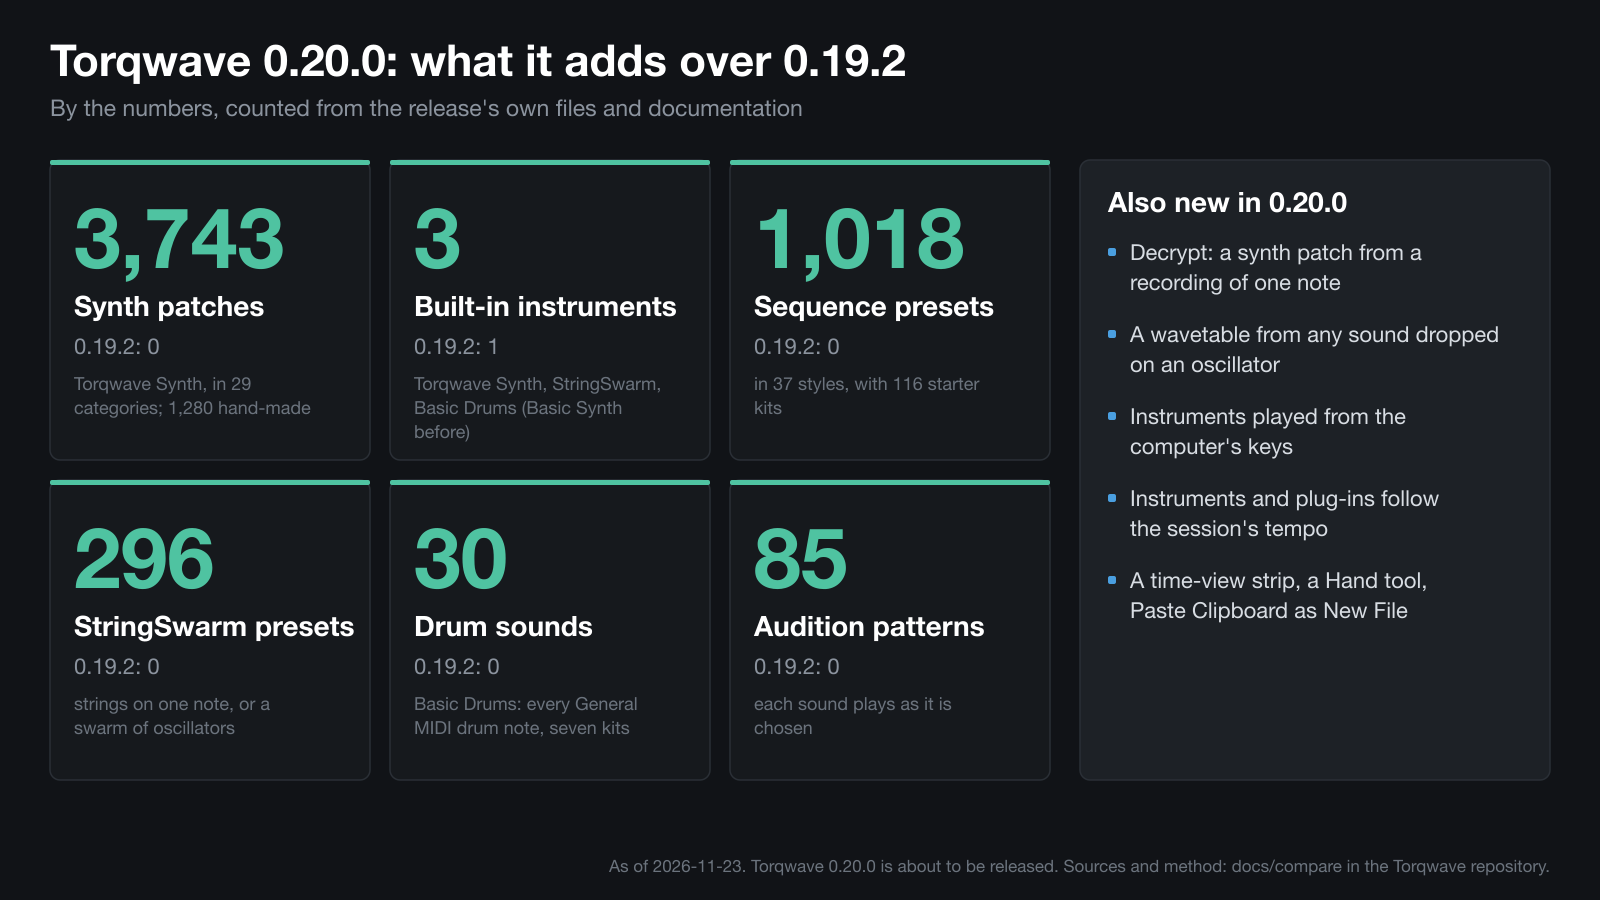
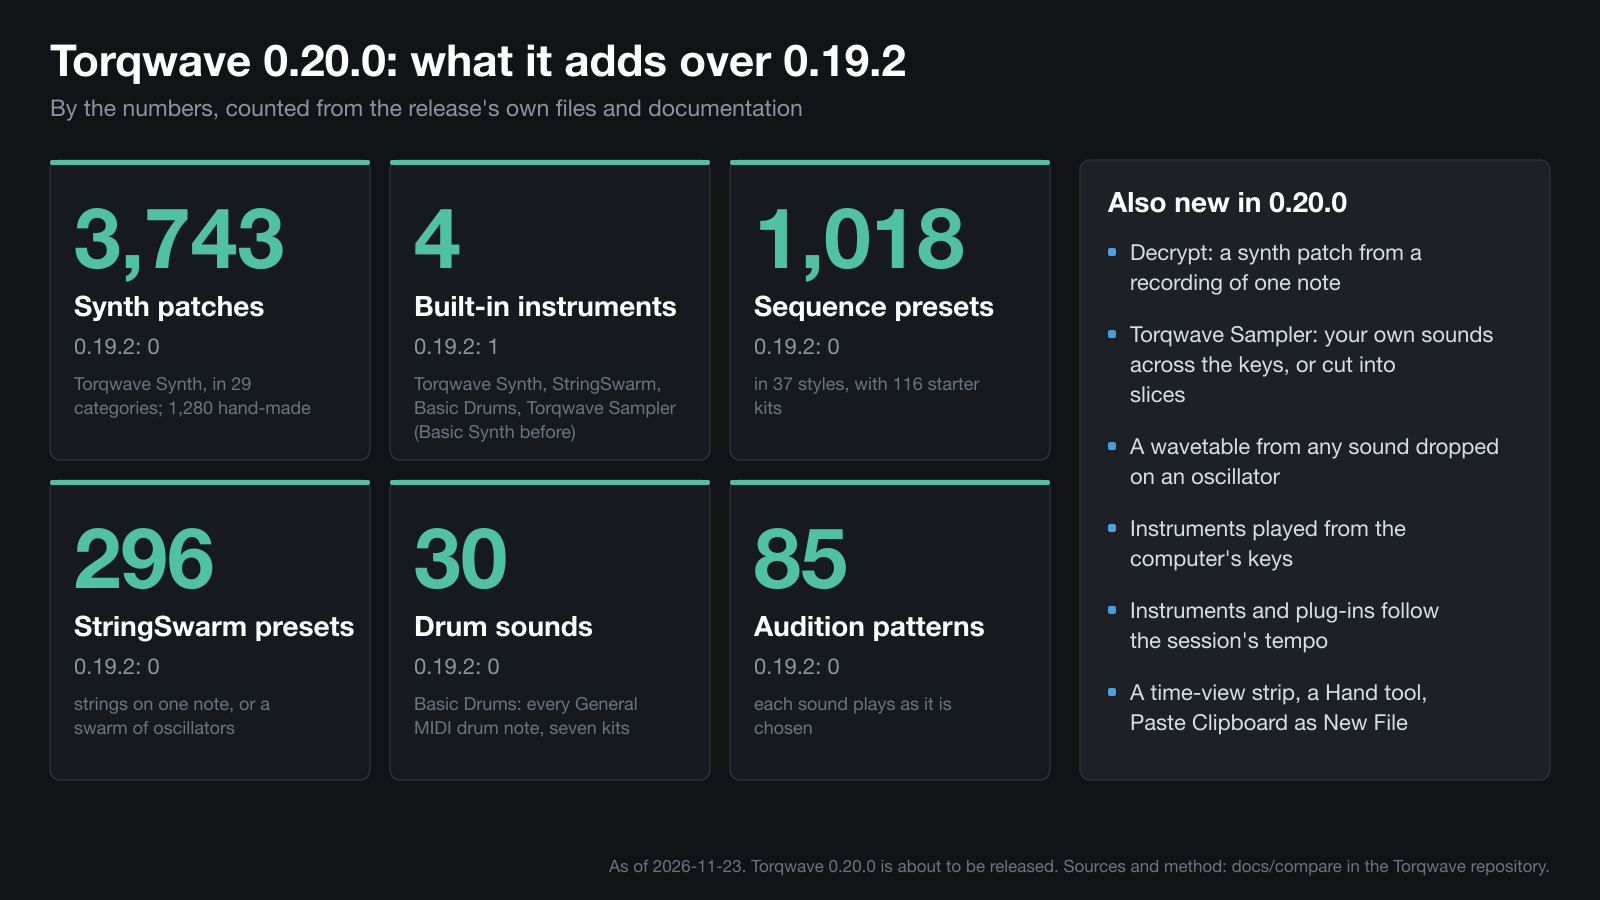
The comparison and the 0.20.0 announcement count Torqwave Sampler: the sampler row is yes, four built-in instruments

diff --git a/docs/compare/MATRIX.md b/docs/compare/MATRIX.md
@@ -75,13 +75,13 @@ Rows that are yes, with partial rows after a plus sign and rows not confirmed af
 | Loudness and analysis | 5 | 5 | 5 | 4 +1 | 1 ?1 | 3 +2 | 1 +2 | 2 +3 |
 | Multitrack and mixing | 9 | 7 | 7 | 4 +1 ?1 | 1 +2 ?1 | 0 +1 | 1 +3 | 4 +2 |
 | MIDI and writing music | 6 | 4 | 3 | 0 +1 | 0 | 0 | 0 | 0 +1 |
-| Built-in instruments | 6 | 5 | 1 +1 | 0 | 0 | 0 | 0 | 0 |
+| Built-in instruments | 6 | 6 | 1 +1 | 0 | 0 | 0 | 0 | 0 |
 | Plug-in hosting | 5 | 3 | 3 | 3 | 3 ?1 | 2 +1 | 1 | 2 |
 | Working to picture | 4 | 4 | 4 | 3 | 1 | 1 | 0 +1 | 3 |
 | Sound library | 1 | 1 | 1 | 0 ?1 | 0 | 0 | 0 | 0 |
 | AI help | 3 | 2 +1 | 2 +1 | 0 ?1 | 0 | 0 ?1 | 1 | 0 |
 | Platforms and licence | 4 | 4 | 4 | 2 | 4 | 2 | 2 | 2 |
-| **All rows** | 53 | 44 +2 | 39 +3 | 23 +5 ?3 | 15 +5 ?3 | 18 +4 ?1 | 15 +7 | 20 +7 |
+| **All rows** | 53 | 45 +2 | 39 +3 | 23 +5 ?3 | 15 +5 ?3 | 18 +4 ?1 | 15 +7 | 20 +7 |
 
 **The DAWs**
 
@@ -92,13 +92,13 @@ Rows that are yes, with partial rows after a plus sign and rows not confirmed af
 | Loudness and analysis | 5 | 5 | 5 | 2 +2 ?1 | 2 +1 | 0 +2 | 1 +2 | 4 +1 | 4 +1 | 4 +1 | 2 +2 | 4 +1 | 2 +2 |
 | Multitrack and mixing | 9 | 7 | 7 | 6 +1 ?1 | 6 +1 | 6 | 5 | 7 | 8 ?1 | 8 | 9 | 8 +1 | 6 +1 |
 | MIDI and writing music | 6 | 4 | 3 | 4 +1 ?1 | 4 +1 | 4 | 4 +1 | 3 +1 | 5 ?1 | 5 ?1 | 5 ?1 | 6 | 3 +1 |
-| Built-in instruments | 6 | 5 | 1 +1 | 5 +1 | 5 | 4 +1 | 5 | 2 +1 | 6 | 4 +1 | 4 | 4 | 2 +1 |
+| Built-in instruments | 6 | 6 | 1 +1 | 5 +1 | 5 | 4 +1 | 5 | 2 +1 | 6 | 4 +1 | 4 | 4 | 2 +1 |
 | Plug-in hosting | 5 | 3 | 3 | 4 | 3 | 3 | 2 | 5 | 1 | 2 | 0 | 3 | 4 |
 | Working to picture | 4 | 4 | 4 | 2 +1 | 2 +1 | 0 | 0 | 3 | 4 | 3 | 3 | 3 | 3 |
 | Sound library | 1 | 1 | 1 | 0 +1 | 1 | 1 | 1 | 1 | 1 | 1 | 1 | 0 +1 | 0 +1 |
 | AI help | 3 | 2 +1 | 2 +1 | 1 +1 | 1 | 0 | 0 | 0 | 1 ?1 | 0 ?1 | 1 | 0 +1 | 0 +1 |
 | Platforms and licence | 4 | 4 | 4 | 2 | 2 | 3 | 2 | 3 | 1 | 2 | 2 | 2 +1 | 4 |
-| **All rows** | 53 | 44 +2 | 39 +3 | 32 +9 ?4 | 27 +5 | 21 +3 | 20 +4 | 32 +6 | 34 +4 ?3 | 32 +4 ?2 | 31 +6 ?1 | 32 +7 | 24 +9 |
+| **All rows** | 53 | 45 +2 | 39 +3 | 32 +9 ?4 | 27 +5 | 21 +3 | 20 +4 | 32 +6 | 34 +4 ?3 | 32 +4 ?2 | 31 +6 ?1 | 32 +7 | 24 +9 |
 
 
 ## Torqwave by release
@@ -106,7 +106,7 @@ Rows that are yes, with partial rows after a plus sign and rows not confirmed af
 | Release | Yes | Partial | No | Rows |
 |---|---|---|---|---|
 | 0.19.2 | 39 | 3 | 11 | 53 |
-| 0.20.0 | 44 | 2 | 7 | 53 |
+| 0.20.0 | 45 | 2 | 6 | 53 |
 
 ## Where Torqwave is behind
 
@@ -119,7 +119,6 @@ Rows where Torqwave 0.20.0 is no or partial and at least two of the 15 other pro
 | ARA 2 plug-ins | No | 4: Steinberg SpectraLayers, REAPER, Cubase, Pro Tools |
 | Audio to MIDI | No | 7: FL Studio, Ableton Live, Reason, Logic Pro, Cubase, Pro Tools, Fender Studio Pro |
 | Notation editor | No | 5: REAPER, Logic Pro, Cubase, Pro Tools, Fender Studio Pro |
-| Built-in sampler | No | 9: FL Studio, Ableton Live, Bitwig Studio, Reason, REAPER, Logic Pro, Cubase, Pro Tools, Fender Studio Pro |
 | CLAP | No | 3: FL Studio, Bitwig Studio, REAPER |
 | VST2 | No | 10: Adobe Audition, Steinberg WaveLab, FL Studio, Ableton Live, Bitwig Studio, Reason, REAPER, Cubase, Fender Studio Pro, Ardour |
 | A typed request becomes edits | Partial | 2: FL Studio, Logic Pro |
@@ -147,14 +146,14 @@ Rows where Torqwave 0.20.0 is yes and at most two of the 15 other products are y
 | Built-in synthesizer | Yes: Basic Synth: one waveform, an envelope and a filter. | Yes: Torqwave Synth (wavetable, three oscillators) and StringSwarm. |
 | Wavetable from your own audio | No: Basic Synth has no wavetables. | Yes: A sound dropped on an oscillator of Torqwave Synth becomes its wavetable. |
 | Built-in drum instrument | No: No drum instrument. | Yes: Basic Drums: 30 synthesised sounds on pads covering the 47 General MIDI drum notes, seven kits. |
-| Built-in sampler | No: No sampler instrument. | No: No sampler instrument. Torqwave Synth reads a sound as a wavetable, which is not sample playback. |
-| Factory instrument sounds | Partial: 1 instrument, Basic Synth, with a short presets menu; the docs give no count. | Yes: 3 instruments: Torqwave Synth with 3,743 patches in 29 categories, StringSwarm with 296 presets, Basic Drums with seven kits. |
+| Built-in sampler | No: No sampler instrument. | Yes: Torqwave Sampler: the user's sounds across the keys in up to 128 zones with loops and crossfades, or cut into slices on keys. Samples are held in memory; no import of SFZ or SF2 libraries, no round robins. Measured by the tests; not yet tried by hand in the app. |
+| Factory instrument sounds | Partial: 1 instrument, Basic Synth, with a short presets menu; the docs give no count. | Yes: 4 instruments: Torqwave Synth with 3,743 patches in 29 categories, StringSwarm with 296 presets, Basic Drums with seven kits, Torqwave Sampler with 11 presets. |
 | Synth patch from a recording | No: Not in 0.19.2. | Yes: Decrypt searches for a Torqwave Synth patch that plays like a recording of one note. Close for sounds the synth made; loose for voices, drums and samples; one note, effects off. |
 
 | Number | 0.19.2 | 0.20.0 | |
 |---|---|---|---|
 | Synth patches | 0 | 3,743 | Torqwave Synth, in 29 categories; 1,280 hand-made |
-| Built-in instruments | 1 | 3 | Torqwave Synth, StringSwarm, Basic Drums (Basic Synth before) |
+| Built-in instruments | 1 | 4 | Torqwave Synth, StringSwarm, Basic Drums, Torqwave Sampler (Basic Synth before) |
 | Sequence presets | 0 | 1,018 | in 37 styles, with 116 starter kits |
 | StringSwarm presets | 0 | 296 | strings on one note, or a swarm of oscillators |
 | Drum sounds | 0 | 30 | Basic Drums: every General MIDI drum note, seven kits |
@@ -269,7 +268,7 @@ Rows where Torqwave 0.20.0 is yes and at most two of the 15 other products are y
 | Built-in synthesizer | Yes | Yes | No | No | No | No | No |
 | Wavetable from your own audio | Yes | No | No | No | No | No | No |
 | Built-in drum instrument | Yes | No | No | No | No | No | No |
-| Built-in sampler | No | No | No | No | No | No | No |
+| Built-in sampler | Yes | No | No | No | No | No | No |
 | Factory instrument sounds | Yes | Partial | No | No | No | No | No |
 | Synth patch from a recording | Yes | No | No | No | No | No | No |
 
@@ -278,7 +277,7 @@ Rows where Torqwave 0.20.0 is yes and at most two of the 15 other products are y
 | Built-in synthesizer | Yes | Yes | Yes | Yes | Yes | Yes | Yes | Yes | Yes | Yes | Yes | Yes |
 | Wavetable from your own audio | Yes | No | Partial | Yes | Partial | Yes | No | Yes | Partial | No | No | No |
 | Built-in drum instrument | Yes | No | Yes | Yes | Yes | Yes | Partial | Yes | Yes | Yes | Yes | No |
-| Built-in sampler | No | No | Yes | Yes | Yes | Yes | Yes | Yes | Yes | Yes | Yes | Partial |
+| Built-in sampler | Yes | No | Yes | Yes | Yes | Yes | Yes | Yes | Yes | Yes | Yes | Partial |
 | Factory instrument sounds | Yes | Partial | Yes | Yes | Yes | Yes | No | Yes | Yes | Yes | Yes | Yes |
 | Synth patch from a recording | Yes | No | Yes | No | No | No | No | Yes | No | No | No | No |
 
@@ -560,8 +559,8 @@ Version 0.20.0, the only edition. Looked up 2026-11-23. This repository at commi
 | Built-in synthesizer | Yes | Torqwave Synth (wavetable, three oscillators) and StringSwarm. | `docs/guide/07-instruments-and-midi.md` |  |
 | Wavetable from your own audio | Yes | A sound dropped on an oscillator of Torqwave Synth becomes its wavetable. | `docs/guide/07-instruments-and-midi.md` |  |
 | Built-in drum instrument | Yes | Basic Drums: 30 synthesised sounds on pads covering the 47 General MIDI drum notes, seven kits. | `docs/guide/07-instruments-and-midi.md` |  |
-| Built-in sampler | No | No sampler instrument. Torqwave Synth reads a sound as a wavetable, which is not sample playback. | `docs/guide/07-instruments-and-midi.md` |  |
-| Factory instrument sounds | Yes | 3 instruments: Torqwave Synth with 3,743 patches in 29 categories, StringSwarm with 296 presets, Basic Drums with seven kits. | `README.md` |  |
+| Built-in sampler | Yes | Torqwave Sampler: the user's sounds across the keys in up to 128 zones with loops and crossfades, or cut into slices on keys. Samples are held in memory; no import of SFZ or SF2 libraries, no round robins. Measured by the tests; not yet tried by hand in the app. | `docs/guide/07-instruments-and-midi.md` |  |
+| Factory instrument sounds | Yes | 4 instruments: Torqwave Synth with 3,743 patches in 29 categories, StringSwarm with 296 presets, Basic Drums with seven kits, Torqwave Sampler with 11 presets. | `README.md` |  |
 | Synth patch from a recording | Yes | Decrypt searches for a Torqwave Synth patch that plays like a recording of one note. Close for sounds the synth made; loose for voices, drums and samples; one note, effects off. | `docs/guide/07-instruments-and-midi.md` |  |
 | VST3 | Yes | Effects and instruments, scanned out of process. | `README.md` |  |
 | Audio Units (Mac) | Yes | Audio Units v2 and v3 on the Mac. | `README.md` |  |

diff --git a/docs/ANNOUNCEMENT-0.20.0.md b/docs/ANNOUNCEMENT-0.20.0.md
@@ -17,9 +17,9 @@ One post, with graphic 1 (`compare/graphics/1-release-by-the-numbers.png`).
 ```text
 Torqwave 0.20.0 is out. The free, open-source audio editor and DAW gets its own instruments:
 
-• Torqwave Synth: a wavetable synth, 3,743 patches
+• Torqwave Synth: wavetable, 3,743 patches
 • Decrypt: a patch from a recording of one note
-• StringSwarm and Basic Drums
+• Sampler, StringSwarm and Basic Drums
 • 1,018 sequence presets
 
 <release link>
@@ -53,12 +53,12 @@ Decrypt builds a synth patch from a recording of one note. It finds the pitch, p
 Close for sounds a synth made. Loose for voices, drums and samples: a patch in their spirit.
 ```
 
-**4 of 6**, with StringSwarm's and Basic Drums' windows (`screenshots/guide-swarm.png`, `screenshots/guide-drums.png`).
+**4 of 6**, with Torqwave Sampler's, StringSwarm's and Basic Drums' windows (`screenshots/guide-sampler.png`, `screenshots/guide-swarm.png`, `screenshots/guide-drums.png`). The sampler's picture comes with the sampler's branch and is drawn by the tests without the playing keys; retake it from the release build if there is time.
 
 ```text
-Two more instruments. StringSwarm: a guitar with every string tuned to the note you play, through a fuzz, or a swarm of oscillators. Basic Drums: 30 sounds on pads, for every General MIDI drum.
+Three more instruments. Torqwave Sampler: your own sounds across the keys, or cut into slices. StringSwarm: a guitar with every string tuned to the note you play, through a fuzz, or a swarm of oscillators. Basic Drums: 30 sounds on pads.
 
-Both play from the computer's keys. Audition plays each sound as you choose it.
+All play from the computer's keys.
 ```
 
 **5 of 6**, with the Sequencer workspace (`screenshots/guide-sequencer.png`) and the editor (`screenshots/editor.png`).
@@ -74,7 +74,7 @@ In the editor: a time-view strip over the ruler, a Hand tool, and Paste Clipboar
 ```text
 Where does it stand? We keep a feature comparison with 15 other editors and DAWs, each cell read from that product's own documentation, and update it every release.
 
-It shows what Torqwave lacks too: no sampler, no audio to MIDI, no CLAP or ARA, and installers not yet notarized.
+It shows what Torqwave lacks too: no audio to MIDI, no CLAP, ARA or Dolby Atmos, and installers not yet notarized.
 ```
 
 A reply under the thread can carry the comparison's address once the branch is on GitHub: `https://github.com/BobClawblaw/torqwave/blob/main/docs/compare/MATRIX.md`.
@@ -84,7 +84,7 @@ A reply under the thread can carry the comparison's address once the branch is o
 For graphic 1, `1-release-by-the-numbers.png`:
 
 ```alt
-A dark chart titled "Torqwave 0.20.0: what it adds over 0.19.2". Six tiles, each with a number and the figure for 0.19.2 under it: 3,743 synth patches (0 before), 3 built-in instruments (1 before), 1,018 sequence presets (0 before), 296 StringSwarm presets (0 before), 30 drum sounds (0 before), 85 audition patterns (0 before). A list beside them, "Also new in 0.20.0": Decrypt, a synth patch from a recording of one note; a wavetable from any sound dropped on an oscillator; instruments played from the computer's keys; instruments and plug-ins follow the session's tempo; a time-view strip, a Hand tool and Paste Clipboard as New File.
+A dark chart titled "Torqwave 0.20.0: what it adds over 0.19.2". Six tiles, each with a number and the figure for 0.19.2 under it: 3,743 synth patches (0 before), 4 built-in instruments (1 before), 1,018 sequence presets (0 before), 296 StringSwarm presets (0 before), 30 drum sounds (0 before), 85 audition patterns (0 before). A list beside them, "Also new in 0.20.0": Decrypt, a synth patch from a recording of one note; Torqwave Sampler, your own sounds across the keys or cut into slices; a wavetable from any sound dropped on an oscillator; instruments played from the computer's keys; instruments and plug-ins follow the session's tempo; a time-view strip, a Hand tool and Paste Clipboard as New File.
 ```
 
 For `screenshots/guide-synth.png`:
@@ -95,7 +95,11 @@ The window of Torqwave Synth with the bass patch Turbine Throat: the presets row
 
 For the Decrypt screenshot (write this when the picture is taken, saying what it shows: the recording dropped in, the chain of steps and how near the patch measures).
 
-For `screenshots/guide-swarm.png` and `screenshots/guide-drums.png`:
+For `screenshots/guide-sampler.png`, `screenshots/guide-swarm.png` and `screenshots/guide-drums.png`:
+
+```alt
+The window of Torqwave Sampler playing a held note: the Keys and Slices switch and the presets row along the top, the sample's waveform with its start, end and a shaded loop, the zone drawn across the keys either side of its root, and the zone's, amp's, filter's, LFO's and voice's settings below.
+```
 
 ```alt
 The window of StringSwarm with the preset Tremolo Swarm Wall: twelve strings all tuned to G across three octaves, each a few cents apart, the fuzz amp with its Drive, Tone, Level and Velocity knobs, the strum and layers controls, and the playing keys along the bottom.
@@ -128,16 +132,17 @@ A dark table titled "Torqwave 0.20.0 and the audio editors". Rows are features s
 ```
 
 ```alt
-A dark table titled "Torqwave 0.20.0 and the DAWs, 1 of 2". Rows are features such as comping, clip launching, a piano roll, built-in instruments, a sampler, audio to MIDI, CLAP and ARA 2; columns are Torqwave 0.20.0, Torqwave 0.19.2, FL Studio, Ableton Live, Bitwig Studio, Reason and REAPER. Each cell is marked yes, partial, no or not confirmed. Torqwave is marked no for a built-in sampler, audio to MIDI, Dolby Atmos, ARA 2 and CLAP.
+A dark table titled "Torqwave 0.20.0 and the DAWs, 1 of 2". Rows are features such as comping, clip launching, a piano roll, built-in instruments, a sampler, audio to MIDI, CLAP and ARA 2; columns are Torqwave 0.20.0, Torqwave 0.19.2, FL Studio, Ableton Live, Bitwig Studio, Reason and REAPER. Each cell is marked yes, partial, no or not confirmed. Torqwave is marked no for audio to MIDI, Dolby Atmos, ARA 2 and CLAP.
 ```
 
 ```alt
-A dark table titled "Torqwave 0.20.0 and the DAWs, 2 of 2", with the same rows; columns are Torqwave 0.20.0, Torqwave 0.19.2, Logic Pro, Cubase, Pro Tools, Fender Studio Pro and Ardour. Each cell is marked yes, partial, no or not confirmed. Torqwave is marked no for a built-in sampler, audio to MIDI, Dolby Atmos, ARA 2 and CLAP, and partial for stem separation, where four of these five are marked yes.
+A dark table titled "Torqwave 0.20.0 and the DAWs, 2 of 2", with the same rows; columns are Torqwave 0.20.0, Torqwave 0.19.2, Logic Pro, Cubase, Pro Tools, Fender Studio Pro and Ardour. Each cell is marked yes, partial, no or not confirmed. Torqwave is marked no for audio to MIDI, Dolby Atmos, ARA 2 and CLAP, and partial for stem separation, where four of these five are marked yes.
 ```
 
 ## Notes for whoever posts it
 
 - It is written for the day of the release. Until then nothing here is posted, and "is out" is not yet true.
 - No other product is named in the posts, and none is called worse. The comparison is offered as a table to read, with what Torqwave lacks in the same post.
+- Torqwave Sampler is in the posts and the graphics on the understanding that it ships in 0.20.0. By its changelog it was measured by the tests and not yet tried by hand in the app: try it before posting, and take it out of the posts if it does not ship.
 - Two hashtags at most if any are added; the draft has none.
 - The Windows and Linux packages of 0.20.0 are built by the workflows and, by the release notes, were not tried by hand. If someone asks, say so.
